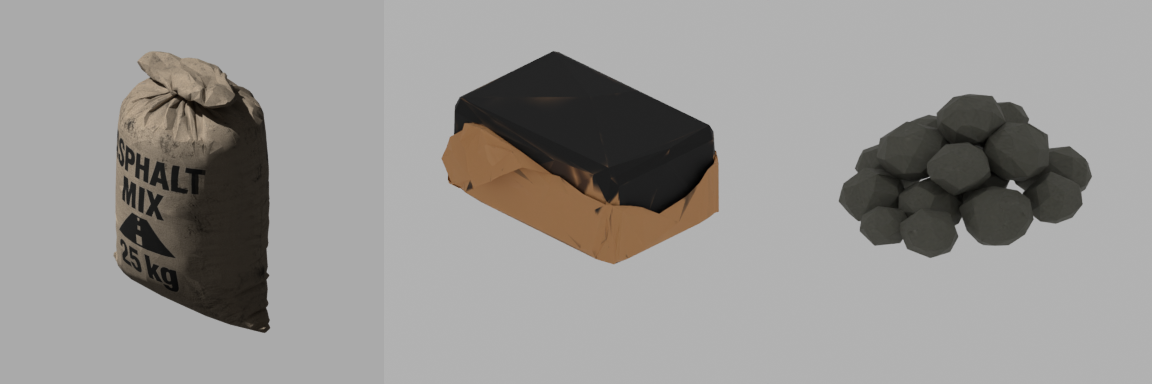
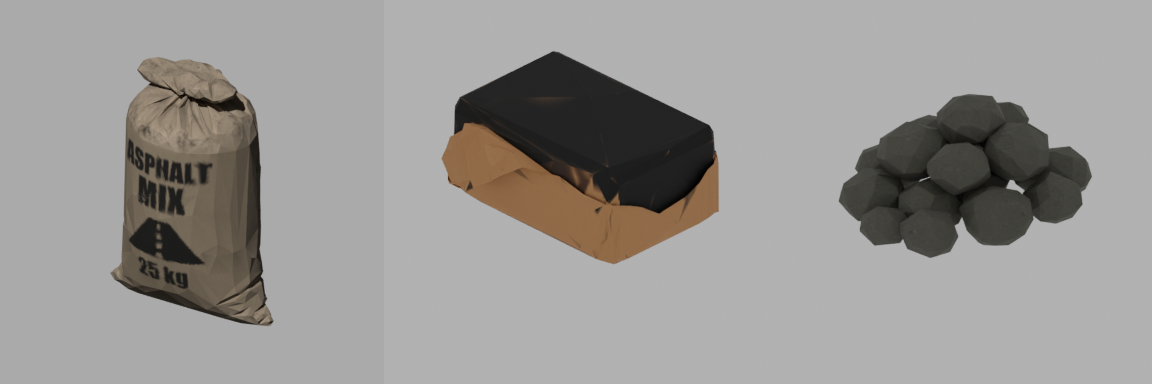
Mix sack: clean printed label baked over the front (Meshy garbled the lettering)

Changed region(s): [[0.0938, 0.125, 0.25, 0.875]]

diff --git a/art/sack_label.py b/art/sack_label.py
@@ -1,0 +1,137 @@
+# Blender: a clean printed label on the front of the asphalt mix sack. Meshy re-paints the
+# concept's lettering through its own UV layout and garbles it, so the front gets a plain sack
+# panel with our lettering, projected from the front (-Y) and baked back into the texture on
+# the mesh's own UVs. The mesh is not touched.
+#   blender -b --factory-startup --python sack_label.py -- <model.fbx> <texture.png> <preview.png>
+# Run after build_items.py (which rewrites the texture from Meshy's).
+import bpy, sys, os, math, random
+from mathutils import Vector
+
+FBX, TEX, PREVIEW = sys.argv[sys.argv.index("--") + 1:][:3]
+SIZE = 512
+LW, LH = 400, 580  # label image = the front of the bounding box, 1 px ~ 1 mm
+
+bpy.ops.wm.read_factory_settings(use_empty=True)
+sc = bpy.context.scene
+sc.render.engine = "CYCLES"
+sc.cycles.device = "CPU"
+bpy.ops.import_scene.fbx(filepath=FBX)
+o = [x for x in sc.objects if x.type == "MESH"][0]
+me = o.data
+base_uv = me.uv_layers.active.name
+base = bpy.data.images.load(TEX)
+
+# Sack colour: the median of the texture (most of it is bare sack).
+px = list(base.pixels)
+lum = sorted((0.3 * px[i] + 0.59 * px[i + 1] + 0.11 * px[i + 2], i) for i in range(0, len(px), 4 * 7))
+i = lum[len(lum) // 2][1]
+sack = (px[i], px[i + 1], px[i + 2])
+
+# Label image: plain sack weave with the lettering, alpha = where it covers.
+lab = bpy.data.images.new("label", LW, LH, alpha=True)
+rng = random.Random(7)
+data = [0.0] * (LW * LH * 4)
+
+
+def inside(x, y):
+    # feathered panel: x 4..96 %, y (from the bottom) 6..80 %
+    fx = min(x / LW - 0.04, 0.96 - x / LW) / 0.05
+    fy = min(y / LH - 0.06, 0.80 - y / LH) / 0.05
+    return max(0.0, min(1.0, fx, fy))
+
+
+# lettering mask from a PIL-free raster: render text with Blender's own font into an image is
+# awkward in batch, so the mask comes from sack_label_text.png (made by sack_label_text.py).
+mask = bpy.data.images.load(os.path.join(os.path.dirname(os.path.abspath(__file__)), "sack_label_text.png"))
+mp = list(mask.pixels)
+for y in range(LH):
+    for x in range(LW):
+        k = (y * LW + x) * 4
+        a = inside(x, y)
+        n = 1.0 + (rng.random() - 0.5) * 0.08 + (0.03 if (x + y) % 3 == 0 else 0.0)
+        ink = mp[k + 3]  # text alpha
+        c = [sack[j] * n * (1 - ink * 0.9) for j in range(3)]
+        data[k:k + 4] = [c[0], c[1], c[2], a]
+lab.pixels = data
+
+# Planar projection from the front: u along X, v along Z, over the bounding box.
+pts = [o.matrix_world @ v.co for v in me.vertices]
+lo = Vector([min(p[j] for p in pts) for j in range(3)])
+hi = Vector([max(p[j] for p in pts) for j in range(3)])
+print("BBOX", tuple(round(c, 3) for c in hi - lo), "rot", [round(c, 2) for c in o.matrix_world.to_euler()], "scale", [round(c, 3) for c in o.matrix_world.to_scale()])
+proj = me.uv_layers.new(name="front")
+front = me.color_attributes.new("facing", "FLOAT_COLOR", "CORNER")
+rot = o.matrix_world.to_3x3().normalized()
+for poly in me.polygons:
+    n = (rot @ poly.normal).normalized()
+    w = max(0.0, min(1.0, (-n.y - 0.05) / 0.3))
+    for li in poly.loop_indices:
+        p = pts[me.loops[li].vertex_index]
+        proj.data[li].uv = ((p.x - lo.x) / (hi.x - lo.x), (p.z - lo.z) / (hi.z - lo.z))
+        front.data[li].color = (w, w, w, 1)
+me.uv_layers.active = me.uv_layers[base_uv]
+
+m = bpy.data.materials.new("bake")
+nt = m.node_tree
+for n in list(nt.nodes):
+    nt.nodes.remove(n)
+uv0 = nt.nodes.new("ShaderNodeUVMap"); uv0.uv_map = base_uv
+uv1 = nt.nodes.new("ShaderNodeUVMap"); uv1.uv_map = "front"
+tb = nt.nodes.new("ShaderNodeTexImage"); tb.image = base
+tl = nt.nodes.new("ShaderNodeTexImage"); tl.image = lab; tl.extension = "CLIP"
+attr = nt.nodes.new("ShaderNodeAttribute"); attr.attribute_name = "facing"
+mul = nt.nodes.new("ShaderNodeMath"); mul.operation = "MULTIPLY"
+mix = nt.nodes.new("ShaderNodeMix"); mix.data_type = "RGBA"
+emit = nt.nodes.new("ShaderNodeEmission")
+outn = nt.nodes.new("ShaderNodeOutputMaterial")
+L = nt.links.new
+L(uv0.outputs["UV"], tb.inputs["Vector"])
+L(uv1.outputs["UV"], tl.inputs["Vector"])
+L(tl.outputs["Alpha"], mul.inputs[0])
+L(attr.outputs["Fac"], mul.inputs[1])
+# Mix has float, vector and colour sockets under the same names: the colour ones by index.
+L(mul.outputs["Value"], mix.inputs[0])
+L(tb.outputs["Color"], mix.inputs[6])
+L(tl.outputs["Color"], mix.inputs[7])
+L(mix.outputs[2], emit.inputs["Color"])
+L(emit.outputs["Emission"], outn.inputs["Surface"])
+out = bpy.data.images.new("out", SIZE, SIZE)
+target = nt.nodes.new("ShaderNodeTexImage"); target.image = out
+nt.nodes.active = target
+me.materials.clear(); me.materials.append(m)
+bpy.ops.object.select_all(action="DESELECT"); o.select_set(True)
+bpy.context.view_layer.objects.active = o
+sc.cycles.samples = 4
+sc.render.bake.margin = 8
+sc.view_settings.view_transform = "Standard"
+bpy.ops.object.bake(type="EMIT")
+out.filepath_raw = TEX
+out.file_format = "PNG"
+out.save()
+print("BAKED", TEX)
+
+# Preview: the baked texture as the game will draw it, from the PZ camera direction.
+pm = bpy.data.materials.new("preview")
+bsdf = pm.node_tree.nodes["Principled BSDF"]; bsdf.inputs["Roughness"].default_value = 0.9
+pt = pm.node_tree.nodes.new("ShaderNodeTexImage"); pt.image = out
+pm.node_tree.links.new(pt.outputs["Color"], bsdf.inputs["Base Color"])
+me.materials.clear(); me.materials.append(pm)
+sc.render.film_transparent = True
+sc.render.resolution_x = sc.render.resolution_y = 384
+sc.cycles.samples = 32
+w = bpy.data.worlds.new("w"); sc.world = w
+w.use_nodes = True; w.node_tree.nodes["Background"].inputs["Strength"].default_value = 0.8
+cam = bpy.data.objects.new("cam", bpy.data.cameras.new("cam"))
+sc.collection.objects.link(cam); sc.camera = cam
+cam.data.type = "ORTHO"
+cam.data.ortho_scale = max(hi - lo) * 1.4
+sun = bpy.data.objects.new("sun", bpy.data.lights.new("sun", "SUN")); sun.data.energy = 3.0
+sc.collection.objects.link(sun)
+ctr = (lo + hi) / 2
+d = Vector((0.6, -1.0, 0.7))
+cam.location = ctr + d.normalized() * 3
+cam.rotation_euler = (ctr - cam.location).to_track_quat("-Z", "Y").to_euler()
+sun.rotation_euler = (d + Vector((-0.5, 0, 0.8))).to_track_quat("Z", "Y").to_euler()
+sc.render.filepath = PREVIEW
+bpy.ops.render.render(write_still=True)
+print("PREVIEW", PREVIEW)

diff --git a/art/build_items.py b/art/build_items.py
@@ -34,6 +34,16 @@ for name, (glb, longest, height, tris, tex) in SIZE.items():
                          capture_output=True, text=True)
     line = [l for l in out.stdout.splitlines() if l.startswith("PART")]
     print(name, line[0] if line else "FAILED\n" + out.stdout[-1500:] + out.stderr[-1500:])
+    if name == "AsphaltMix":
+        # Meshy garbles the lettering: a clean label baked over the front (sack_label.py).
+        here = os.path.dirname(os.path.abspath(__file__))
+        subprocess.run(["python", "-I", os.path.join(here, "sack_label_text.py")], check=True)
+        out = subprocess.run([BLENDER, "-b", "--factory-startup", "--python", os.path.join(here, "sack_label.py"), "--",
+                              os.path.abspath(os.path.join(mesh_dir, "DR_AsphaltMix.fbx")),
+                              os.path.abspath(os.path.join(tex_dir, "DR_AsphaltMix.png")),
+                              os.path.abspath(os.path.join(prev_dir, "AsphaltMix_label.png"))],
+                             capture_output=True, text=True)
+        print(name, "label", "ok" if "BAKED" in out.stdout else "FAILED\n" + out.stdout[-1500:] + out.stderr[-1500:])
     # Node scale 100 (Blender's export), vertices in metres -> script scale 0.01.
     script += ["    model DR_%s" % name, "    {",
                "        mesh = WorldItems/DR_%s," % name,

diff --git a/art/sack_label_text.py b/art/sack_label_text.py
@@ -1,0 +1,32 @@
+# The lettering of the asphalt mix sack label (alpha mask, 400 x 580 = the front of the sack,
+# 1 px ~ 1 mm) for sack_label.py. Pillow, Windows fonts.
+#   python art/sack_label_text.py
+import os
+from PIL import Image, ImageDraw, ImageFont
+
+W, H = 400, 580
+img = Image.new("RGBA", (W, H), (0, 0, 0, 0))
+d = ImageDraw.Draw(img)
+FONT = r"C:\Windows\Fonts\impact.ttf"
+
+
+def centred(text, size, top):
+    f = ImageFont.truetype(FONT, size)
+    l, t, r, b = d.textbbox((0, 0), text, font=f)
+    d.text(((W - (r - l)) / 2 - l, top - t), text, font=f, fill=(0, 0, 0, 255))
+    return top + (b - t)
+
+
+# from the top: the knot takes the upper ~20 %
+y = centred("ASPHALT", 62, 160)
+y = centred("MIX", 80, y + 12)
+# road sign: a road narrowing to the horizon with a dashed centre line
+cx, top, bot = W / 2, y + 26, y + 120
+d.polygon([(cx - 26, top), (cx + 26, top), (cx + 95, bot), (cx - 95, bot)], fill=(0, 0, 0, 255))
+for k in range(4):
+    a, b = top + 8 + k * 24, top + 20 + k * 24
+    wa, wb = 3 + k * 1.6, 3 + (k + 0.5) * 1.6
+    d.polygon([(cx - wa, a), (cx + wa, a), (cx + wb, b), (cx - wb, b)], fill=(0, 0, 0, 0))
+y = centred("25 kg", 56, bot + 18)
+img.save(os.path.join(os.path.dirname(os.path.abspath(__file__)), "sack_label_text.png"))
+print("text bottom", y, "of", H)
